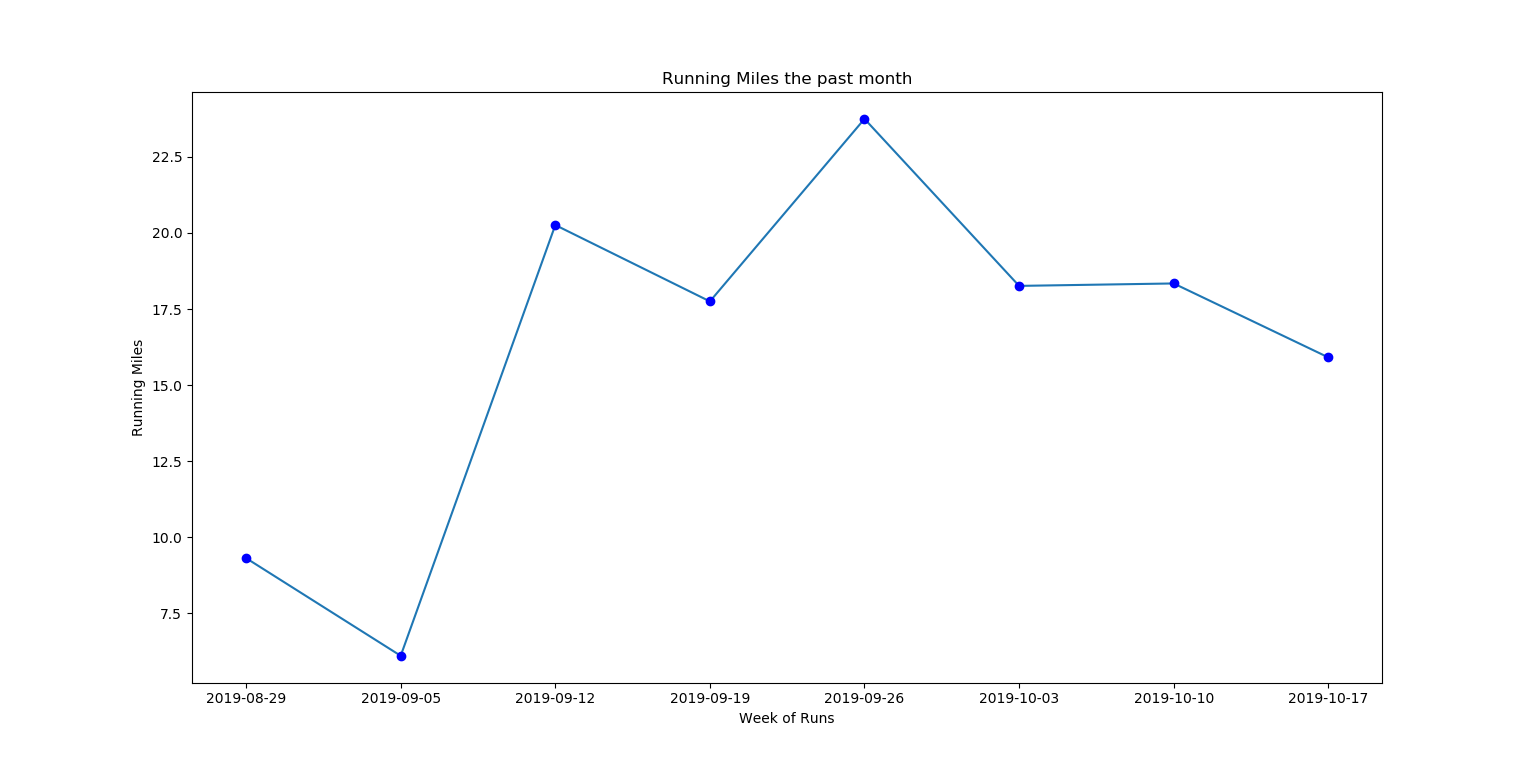
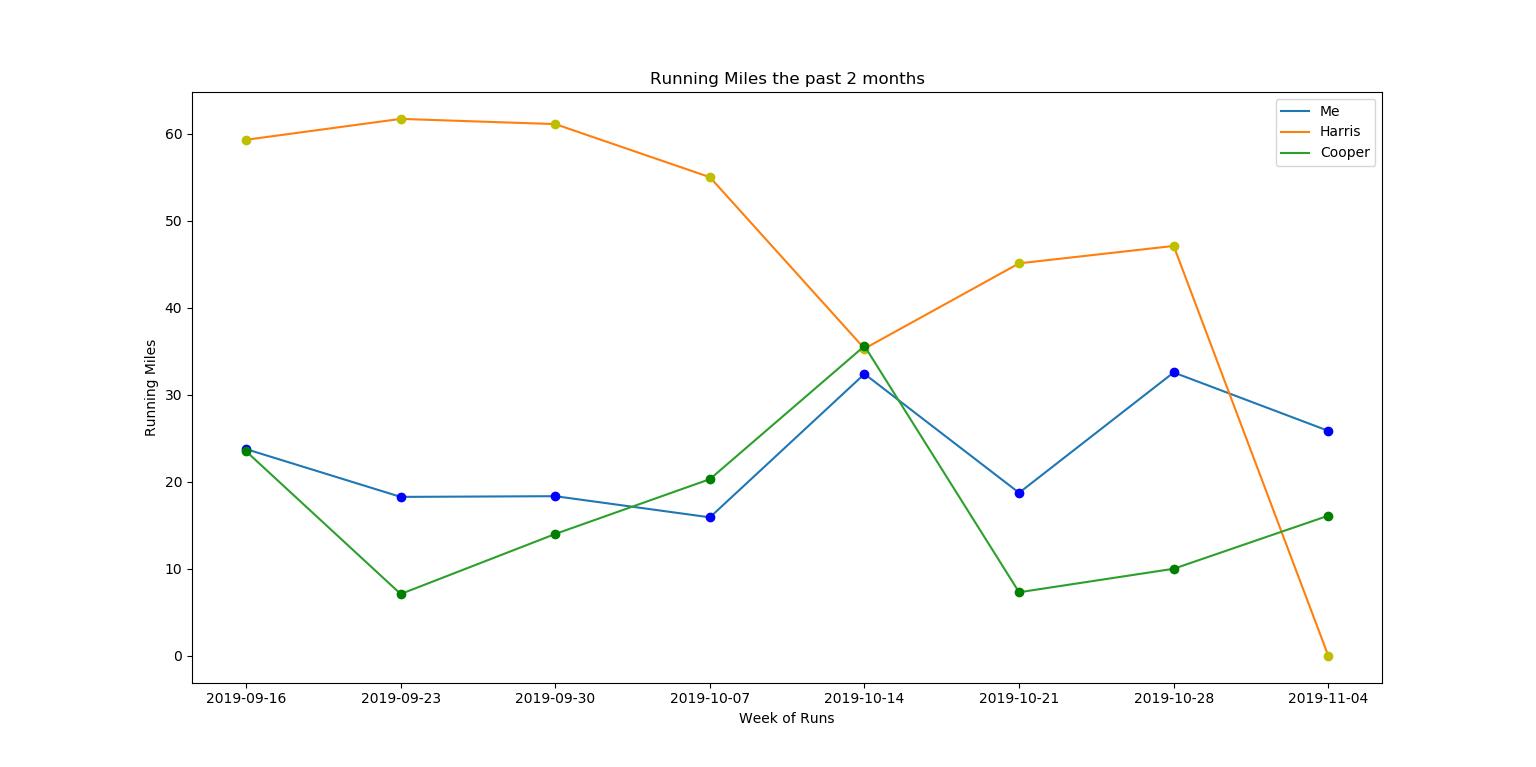
Add files via upload

diff --git a/Jay's projects.html b/Jay's projects.html
@@ -35,14 +35,14 @@
 On top of that I track the number of times that I lift and add eliptical minutes onto my running mileage. Below you can see the Strava dashboard page and to the left
 it shows my weekly running mileage (6.0 mi).</li>
 <br />
-<img src = "Strava.PNG" height = "500" width = "750" />
+<img src = "Strava.PNG" height = "450" width = "700" />
 </ul>
 
 <ul>
-<li class = "info">Made a tool using Python to plot my weekly running miles for either the past month or 2 months. The weekly running mile information will be pulled from 
+<li class = "info">Made a tool using Python to plot my weekly running miles, along with running mileage for high school and college friends, for either the past month or 2 months. The weekly running mile information will be pulled from 
 an Excel sheet that I have on my Desktop.</li>
 <br />
-<img src = "Running Plot.PNG" height = "500" width = "750" />
+<img src = "Running Plot.PNG" height = "450" width = "700" />
 </ul>
 
 <ul>
@@ -52,7 +52,7 @@ I record the running information in Strava where I then scrape it into a CSV fil
 Using this index number I produce the weather for that run at an interval of my choosing. I created a shell script to be able to run this Python script 
 along with the Python script to track my weekly cardio. Below is a sample output from the script.</li>
 <br />
-<img src = "weather_tracker.PNG" height = "500" width = "750" />
+<img src = "weather_tracker.PNG" height = "450" width = "700" />
 </ul>
 <h3 style="padding-left:12px;">School Projects</h3>
 <ul>
@@ -65,7 +65,7 @@ along with the Python script to track my weekly cardio. Below is a sample output
 <li class = "info">Project write-up<a href= "Project 3 Write Up.docx"><i class="fa fa-download" style="font-size:26px;color:black;padding-left:10px"></i></a></li>
 </ul>
 <br />
-<img src = "Comp org Project 3.png" height = "500" width = "750" />
+<img src = "Comp org Project 3.png" height = "450" width = "700" />
 </ul>
 </body>
 </html>
